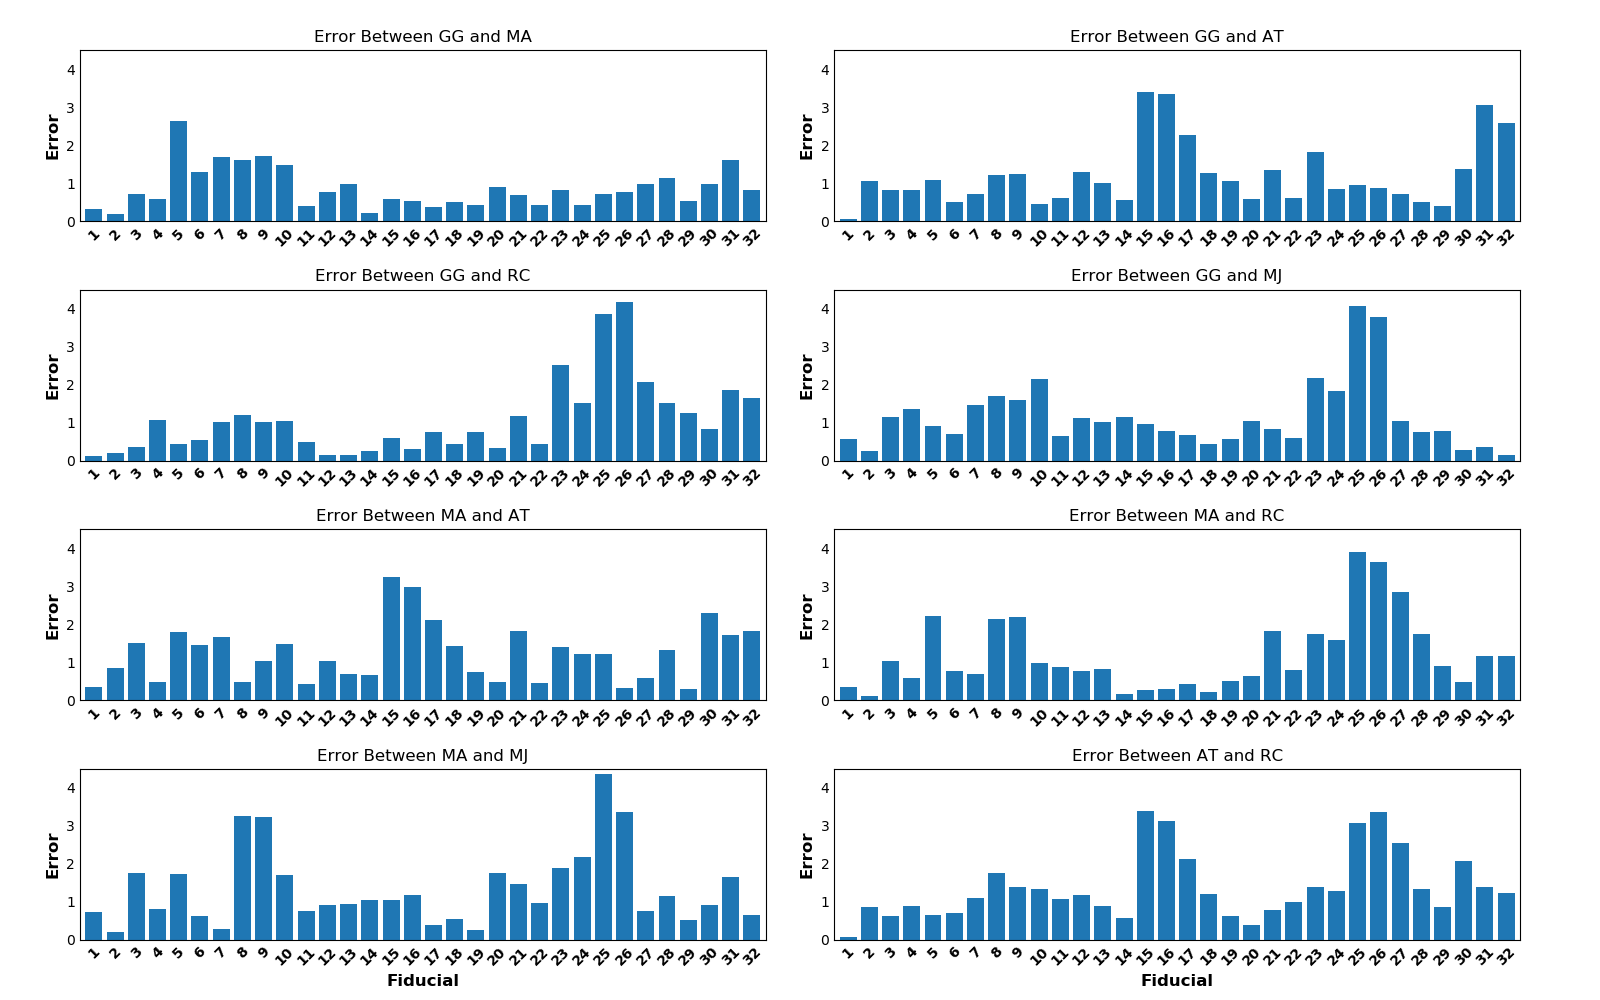
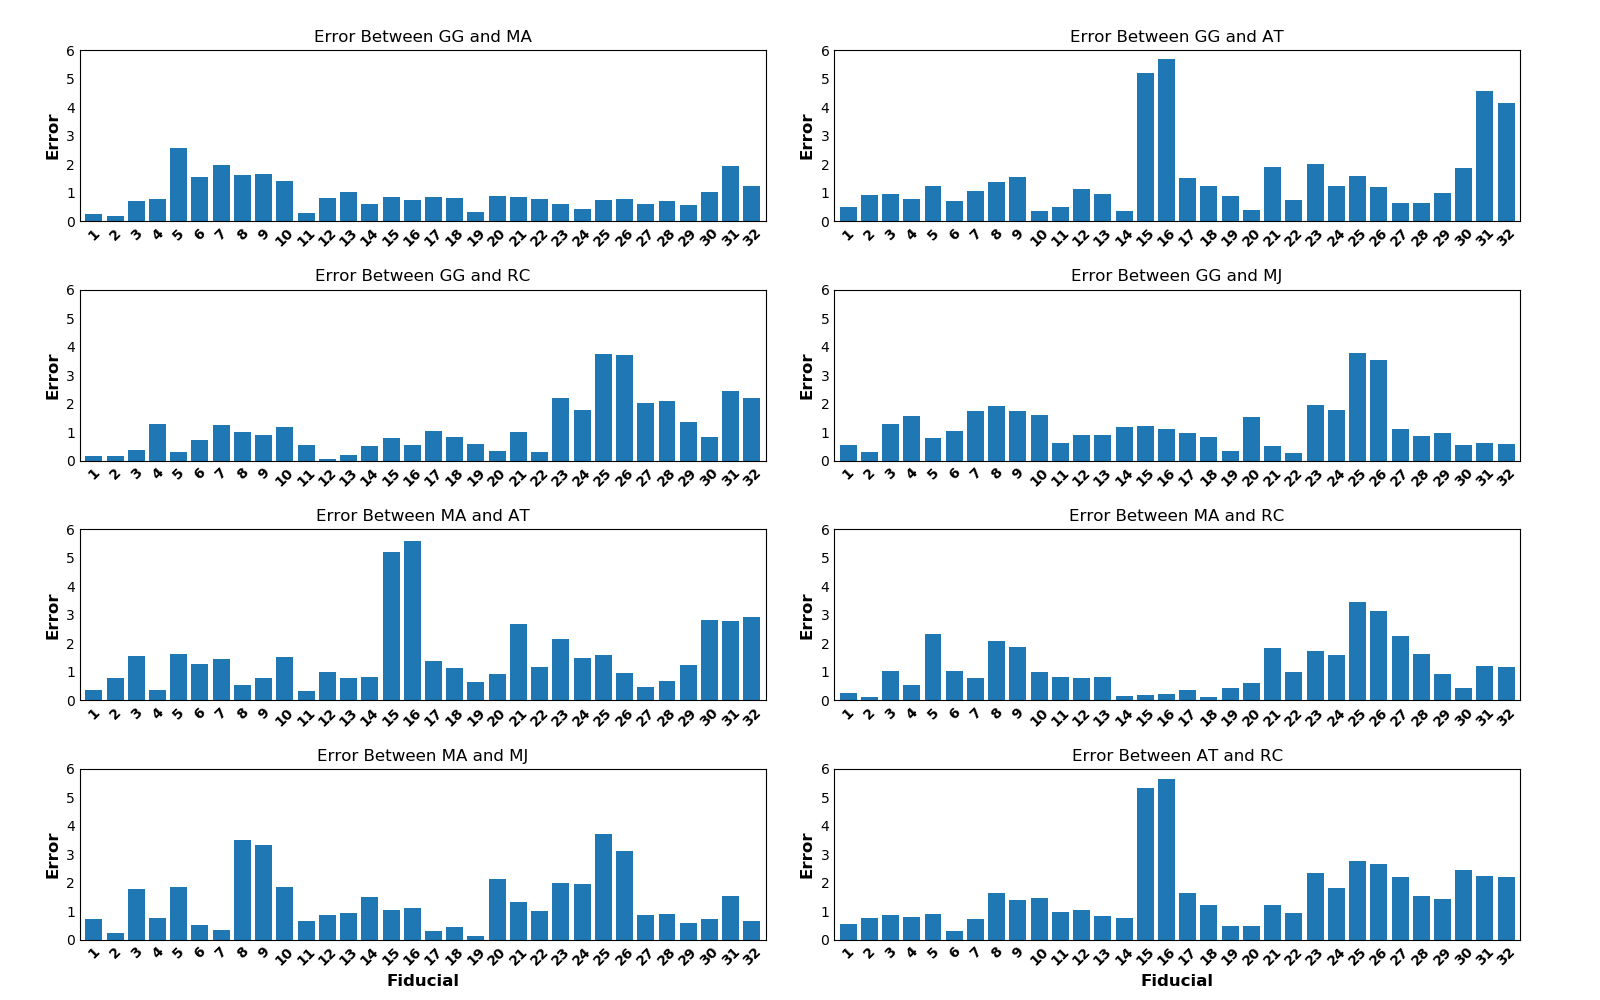
updated plots

diff --git a/analysis/Fids_analysis.py b/analysis/Fids_analysis.py
@@ -19,6 +19,7 @@ plt.rc('ytick.major', size = 0, width=0)
 #data_dir = r'/home/ggilmore/Documents/GitHub/afids_parkinsons/input/input_fid'
 data_dir = r'C:\Users\Greydon\Documents\github\afids_parkinsons\input\input_fid'
 
+show_only = True
 
 sub_ignore = []
 
@@ -167,12 +168,15 @@ for r in raters:
 	Sub = pd.concat([Sub, data_table], axis = 0, ignore_index=True)
 	size.append((r,len(sub_temp)))
 
+full_subs = set(Sub[Sub['rater']==size[0][0]]['subject'].values)
+
 size = sorted(size, key=lambda tup: tup[1], reverse=True)
 Sub_Comp = list(set(Sub[Sub['rater']==size[0][0]]['subject'].values) & 
 				set(Sub[Sub['rater']==size[1][0]]['subject'].values))
 for irate in range(2,len(raters)):
 	Sub_Comp = list(set(Sub_Comp) & set(Sub[Sub['rater']==size[irate][0]]['subject'].values))
 
+#set(full_subs).difference(Sub[Sub['rater']==size[4][0]]['subject'].values)
 
 Data_comp = rater_final[rater_final['subject'].isin(Sub_Comp)]
 Data_comp = Data_comp.sort_values(['rater','subject', 'fid'], ascending=[True, True,True])
@@ -219,15 +223,15 @@ rater_mean = Data_comp.groupby(['rater','fid'])['x','y','z'].mean().reset_index(
 
 #%%
 
-plot_fiducials(rater_mean, GS_total_mean, data_dir, 1, True)
-plot_fiducials(rater_mean, GS_total_mean, data_dir, 2, True)
+plot_fiducials(rater_mean, GS_total_mean, data_dir, 1, show_only)
+plot_fiducials(rater_mean, GS_total_mean, data_dir, 2, show_only)
 
 #%%
 
 comparisons = [("GG", 'MA'),("GG", 'AT'),("GG", 'RC'),("GG", 'MJ'),("MA", 'AT'),
 			   ("MA", 'RC'),("MA", 'MJ'),("AT", 'RC'),("AT", 'MJ'),("RC", 'MJ')]
 
-max_val = 4.5
+max_val = 6.0
 
 fig, axes = plt.subplots(4, 2)
 plot_cnt = 0
@@ -267,28 +271,30 @@ for irow in range(4):
 
 fig.subplots_adjust(hspace=0.4, wspace=0.10, top=0.95, bottom=0.06, left=0.05, right=0.95) 
 
-output_temp = os.path.dirname(data_dir)
-output_dir = os.path.join(os.path.dirname(output_temp),'output', 'plots')
-
-if not os.path.exists(output_dir):
-	os.mkdir(output_dir)
-
-file_name = 'error_between_all_raters.png'
-
-fig = plt.gcf()
-fig.set_size_inches(16, 10)
-fig.savefig(os.path.join(output_dir, file_name), dpi=100)
-plt.close()
+if not show_only:
+	output_temp = os.path.dirname(data_dir)
+	output_dir = os.path.join(os.path.dirname(output_temp),'output', 'plots')
+	
+	if not os.path.exists(output_dir):
+		os.mkdir(output_dir)
+	
+	file_name = 'error_between_all_raters.png'
+	
+	fig = plt.gcf()
+	fig.set_size_inches(16, 10)
+	fig.savefig(os.path.join(output_dir, file_name), dpi=100)
+	plt.close()
 
 #%%
 rater_mean = Data_comp.groupby(['rater','fid'])['x','y','z'].mean().reset_index()
 
-max_val = 4.5
+max_val = 6.0
 
 fig, axes = plt.subplots(5, 1)
 for irow in range(len(raters)):
 	rater_1 = raters[irow]
-	rater_2 = [x for x in raters if x != rater_1]
+#	rater_2 = [x for x in raters if x != rater_1]
+	rater_2 = raters
 
 	rater_1_data = rater_mean.loc[rater_mean['rater'].isin([rater_1]),:]
 	
@@ -313,18 +319,19 @@ for irow in range(len(raters)):
 	
 fig.subplots_adjust(hspace=0.45, wspace=0.5, top=0.95, bottom=0.08, left=0.10, right=0.90) 
 
-output_temp = os.path.dirname(data_dir)
-output_dir = os.path.join(os.path.dirname(output_temp),'output', 'plots')
-
-if not os.path.exists(output_dir):
-	os.mkdir(output_dir)
-
-file_name = 'error_raters_group_average.png'
-
-fig = plt.gcf()
-fig.set_size_inches(16, 10)
-fig.savefig(os.path.join(output_dir, file_name), dpi=100)
-plt.close()
+if not show_only:
+	output_temp = os.path.dirname(data_dir)
+	output_dir = os.path.join(os.path.dirname(output_temp),'output', 'plots')
+	
+	if not os.path.exists(output_dir):
+		os.mkdir(output_dir)
+	
+	file_name = 'error_raters_group_average.png'
+	
+	fig = plt.gcf()
+	fig.set_size_inches(16, 10)
+	fig.savefig(os.path.join(output_dir, file_name), dpi=100)
+	plt.close()
 
 #%%
 
@@ -347,16 +354,17 @@ plt.xlabel("Fiducial", fontsize=12, fontweight = 'bold')
 plt.ylabel("Error", fontsize=12, fontweight = 'bold')
 plt.title('Average error across raters', fontsize=14, fontweight = 'bold')
 
-output_temp = os.path.dirname(data_dir)
-output_dir = os.path.join(os.path.dirname(output_temp),'output', 'plots')
-
-if not os.path.exists(output_dir):
-	os.mkdir(output_dir)
-
-file_name = 'average_error_across_raters.png'
-
-fig = plt.gcf()
-fig.set_size_inches(14, 10)
-fig.savefig(os.path.join(output_dir, file_name), dpi=100)
-plt.close()
+if not show_only:
+	output_temp = os.path.dirname(data_dir)
+	output_dir = os.path.join(os.path.dirname(output_temp),'output', 'plots')
+	
+	if not os.path.exists(output_dir):
+		os.mkdir(output_dir)
+	
+	file_name = 'average_error_across_raters.png'
+	
+	fig = plt.gcf()
+	fig.set_size_inches(14, 10)
+	fig.savefig(os.path.join(output_dir, file_name), dpi=100)
+	plt.close()
 
